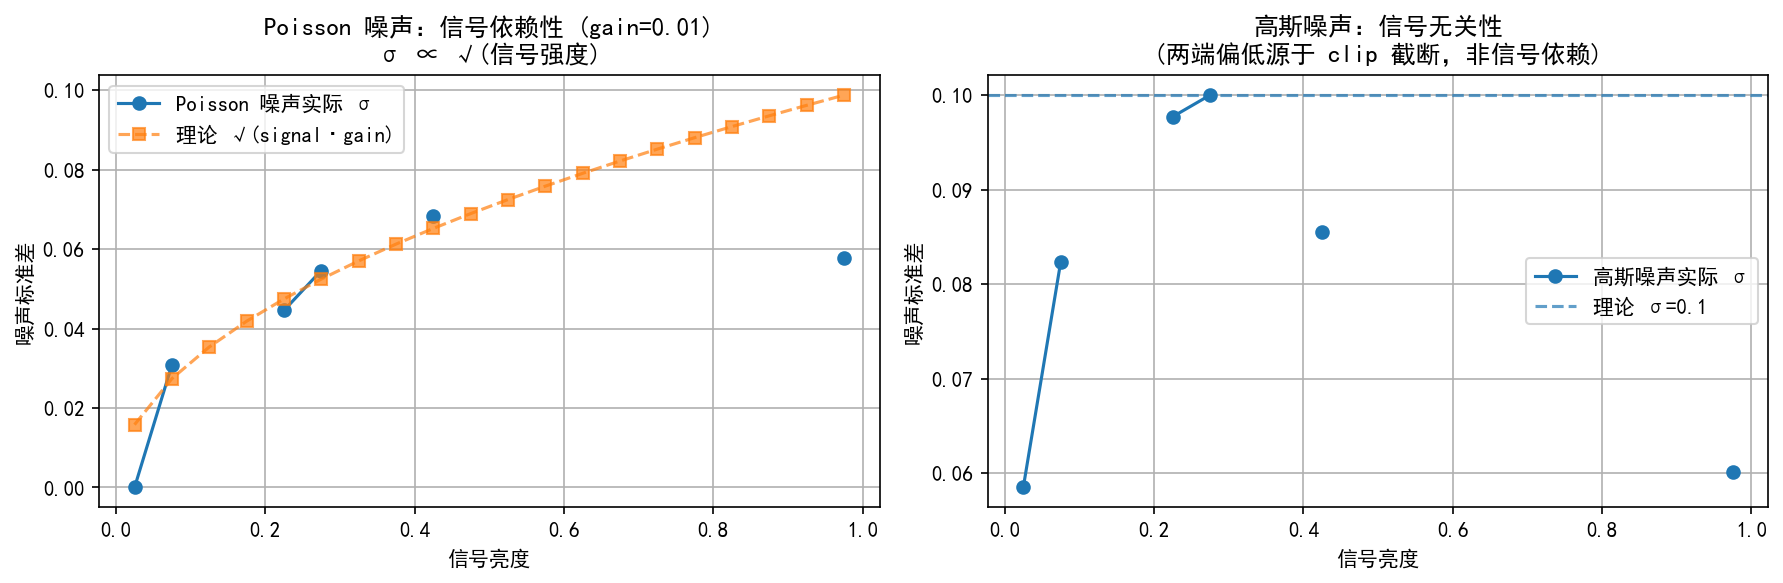
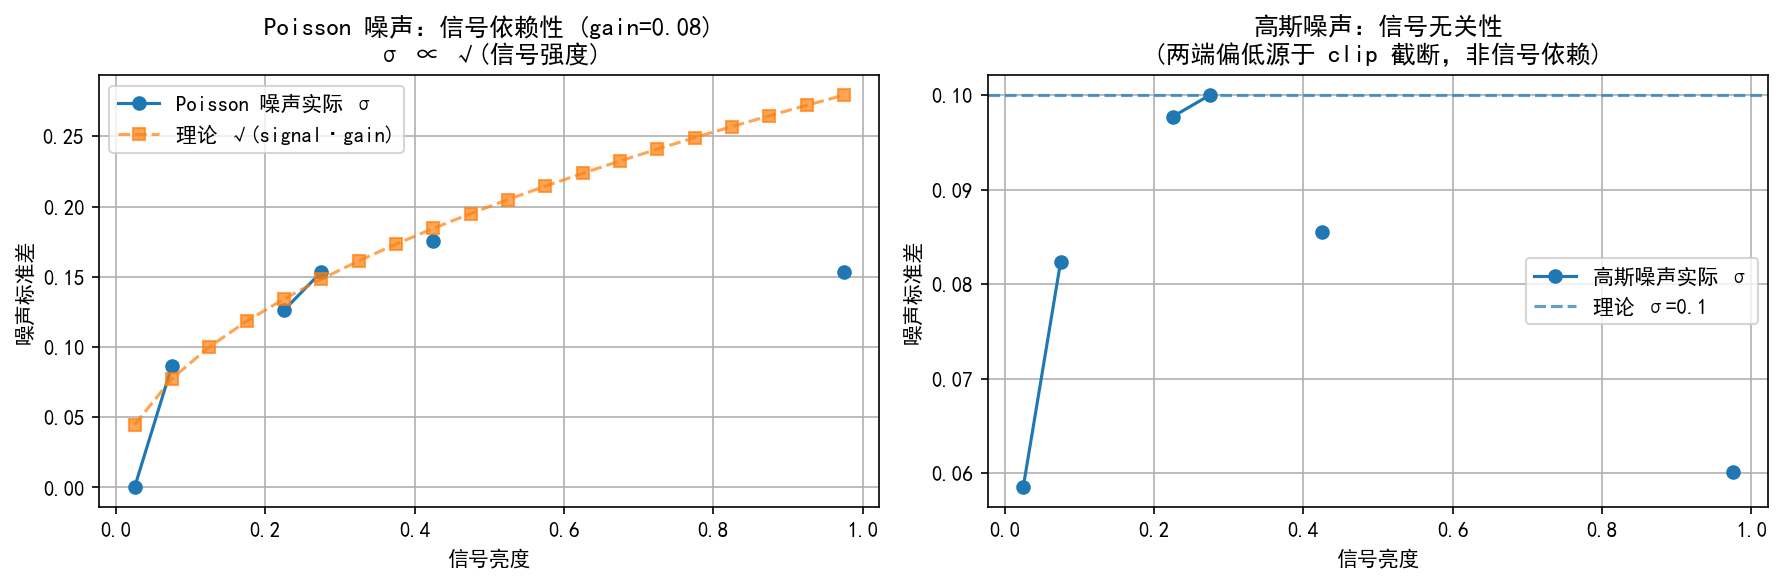
1

diff --git a/第1章 逆问题与贝叶斯推断/第一章 配套实验/实验1.4-1/1.4-1.py b/第1章 逆问题与贝叶斯推断/第一章 配套实验/实验1.4-1/1.4-1.py
@@ -38,15 +38,16 @@ y_gauss = x + sigma_gauss * np.random.randn(n, n)
 y_gauss = np.clip(y_gauss, 0, 1)
 
 # (b) Poisson 噪声：y_i ~ Poisson((Ax)_i / gain) * gain，信号依赖
-# 调节 gain 使 PSNR 与高斯噪声大致相当
-gain = 0.01
+# 调节 gain 使 PSNR 与高斯噪声大致相当（gain 越大噪声越强、PSNR 越低）
+gain = 0.08
 y_poisson = np.random.poisson(x / gain).astype(np.float64) * gain
 # 注意：clip 操作会截断高亮度区域的噪声，导致实测 σ 在高亮度处低于理论值
 # 这是因为当 x 接近 1 时，λ = x/gain = 100，方差较大，部分样本会被 clip 到 1
 y_poisson = np.clip(y_poisson, 0, 1)
 
 # (c) 脉冲噪声（椒盐噪声）：随机像素被替换为 0 或 1
-amount_sp = 0.05
+# 调节 amount 使 PSNR 与高斯噪声大致相当（amount 越小噪声越弱、PSNR 越高）
+amount_sp = 0.01
 y_sp = random_noise(x, mode='s&p', amount=amount_sp)
 
 # ---- 3. 计算质量度量 ----
@@ -81,9 +82,20 @@ for i, (y, name) in enumerate(zip(noisy_list, names)):
 
     # 噪声直方图
     residual = (y - x).ravel()
-    axes[i, 2].hist(residual, bins=100, density=True, alpha=0.7, color=f'C{i}')
-    axes[i, 2].set_title(f'噪声直方图\nμ={residual.mean():.4f}, σ={residual.std():.4f}')
-    axes[i, 2].set_xlabel('残差值')
+    # 高斯噪声：保留完整数据直方图（含 clip 在 0 处的尖峰，体现真实情况），
+    # 并叠加理论 N(0, σ²) 曲线作对照，使读者能分辨"钟形是真高斯、0 处尖峰是 clip 截断"。
+    if name == '高斯噪声':
+        axes[i, 2].hist(residual, bins=100, density=True, alpha=0.7,
+                        color=f'C{i}', label='含噪残差')
+        t = np.linspace(-0.6, 0.6, 400)
+        theory = (1 / (np.sqrt(2 * np.pi) * sigma_gauss)) * np.exp(-0.5 * (t / sigma_gauss) ** 2)
+        axes[i, 2].plot(t, theory, 'k--', lw=2, label=f'理论 N(0, {sigma_gauss}²)')
+        axes[i, 2].legend(loc='upper right', fontsize=7)
+        axes[i, 2].set_title(f'高斯噪声直方图（完整数据）\nμ={residual.mean():.4f}, σ={residual.std():.4f}')
+    else:
+        axes[i, 2].hist(residual, bins=100, density=True, alpha=0.7, color=f'C{i}')
+        axes[i, 2].set_title(f'噪声直方图\nμ={residual.mean():.4f}, σ={residual.std():.4f}')
+    axes[i, 2].set_xlabel('残差值 (y - x)')
     axes[i, 2].set_ylabel('概率密度')
 
 plt.suptitle('三种噪声模型对比', fontsize=16, y=1.01)

diff --git a/第1章 逆问题与贝叶斯推断/1.4 噪声建模与似然函数.md b/第1章 逆问题与贝叶斯推断/1.4 噪声建模与似然函数.md
@@ -22,12 +22,12 @@ $$y = Ax + \varepsilon$$
 噪声物理机制 → 噪声分布 p(ε) → 似然函数 p(y|x) → 负对数似然 -ln p(y|x) → 数据项 D(y, Ax)
 ```
 
-逻辑是：
+背后的逻辑是：
 1. **噪声物理机制**决定 $\varepsilon$ 服从什么分布
 2. 由 $y = Ax + \varepsilon$，得 $\varepsilon = y - Ax$ 的分布，直接给出**似然函数** $p(y|x)$——已知 $x$ 时观测到 $y$ 的概率
-3. 取负对数，乘积变求和、指数消失，得到简洁**数据项** $D(y, Ax)$
+3. 取负对数，乘积变求和、指数消失（指数族概率分布），得到简洁**数据项** $D(y, Ax)$
 
-关键洞察：**数据项的形式不是人为选的，而是由物理噪声机制唯一决定的。** 选 L2、L1 还是 KL 散度，不是因为哪个"更好"，而取决于噪声是高斯、Laplace（脉冲）还是 Poisson 的。
+**数据项的形式不是人为选的，而是由物理噪声机制唯一决定的。** 选 L2、L1 还是 KL 散度，不是因为哪个"更好"，而取决于噪声是高斯、Laplace（脉冲）还是 Poisson 的。
 
 ---
 
@@ -35,7 +35,7 @@ $$y = Ax + \varepsilon$$
 
 ### 物理来源：为什么几乎都用高斯？
 
-这里先回答一个你可能一直想问的问题：**为什么图像处理里高斯噪声满天飞？** 答案藏在**中心极限定理（Central Limit Theorem, CLT）**里。
+这里先回答一个你可能一直想问的问题：**为什么图像处理里高斯噪声满天飞？** 答案藏在**中心极限定理（Central Limit Theorem, CLT）** 里。
 
 中心极限定理说：大量相互独立的随机小扰动叠加在一起，其总和的分布会趋近高斯分布——不管单个扰动原本是什么分布。探测器里的电子热噪声、散粒噪声，本质都是海量独立微观事件（电子跃迁、光子到达）的叠加。所以按 CLT，它们的总和天然接近高斯。这就是"为什么几乎都用高斯"的根本原因：**高斯不是拍脑袋选的，而是大量独立小扰动叠加的数学必然。**
 
@@ -147,7 +147,7 @@ $$-\ln p(y|x) = \frac{1}{b} \|y - Ax\|_1 + \text{const}$$
 
 ### L¹ vs L²：鲁棒性直觉
 
-为何 L¹ 对离群值更鲁棒？看去噪问题（$A = I$）：
+为何 L¹ 对离群值更鲁棒？看去噪问题（设$A = I$）：
 - **L² 目标**：$\min_x \|y - x\|_2^2 = \sum_i (y_i - x_i)^2$。单个大残差被平方放大，迫使 $x_k$ 向 $y_k$ 靠拢——离群值"绑架"了解。
 - **L¹ 目标**：$\min_x \|y - x\|_1 = \sum_i |y_i - x_i|$。大残差只线性增长，不主导总误差——算法可"忽略"少数离群值。
 
@@ -179,9 +179,9 @@ $$-\ln p(y|x) = \frac{1}{b} \|y - Ax\|_1 + \text{const}$$
 
 三种数据项来自三种物理噪声机制，流程完全统一。**数据项选择不是任意的，由成像系统物理特性决定。** 用错数据项（如 Poisson 用 L²），重建质量会显著下降——不是算法不好，是噪声模型不对。
 
-### 一个深层统一：指数族
+### 深层统一：指数族
 
-三种噪声都属于**指数族（exponential family）**，统一写：
+三种噪声（观测数据的概率分布）都属于**指数族（exponential family）** ，统一写：
 
 $$p(\varepsilon_i) \propto \exp\big(-\phi(\varepsilon_i)\big)$$
 
@@ -200,14 +200,14 @@ $\phi$ 为某凸函数：
 
 ### 实验场景
 
-用 $256 \times 256$ Shepp-Logan 幻影（含脑脊液/灰质/白质/颅骨等不同亮度区），分别施加三种噪声并调参使 PSNR 大致相当：
+用 $256 \times 256$ Shepp-Logan 幻影，分别施加三种噪声并调参使 PSNR 大致相当（三者均落在约 $21\!-\!23$ dB）：
 - **高斯噪声**（$\sigma = 0.1$）：信号无关，各像素 iid
-- **Poisson 噪声**（增益 $= 0.01$）：信号依赖，方差 $\propto$ 信号强度
-- **脉冲噪声**（椒盐，$p = 0.05$）：仅影响少数像素但偏差极大
+- **Poisson 噪声**（增益 $= 0.08$）：信号依赖，方差 $\propto$ 信号强度
+- **脉冲噪声**（椒盐，$p = 0.01$）：仅影响极少数像素但偏差极大
 
 对每种噪声算 PSNR 和 SSIM，绘含噪图、残差图和直方图，并通过分桶统计验证 Poisson 信号依赖（$\sigma \propto \sqrt{\text{signal}}$）和高斯信号无关性。
 
-> **前置提示**：PSNR 和 SSIM 在附录 1A 详述。此处仅作工具，核心是对比三种噪声视觉与统计差异。
+> PSNR 和 SSIM 在附录 1A 详述。此处仅作工具，核心是对比三种噪声视觉与统计差异。
 
 ### 实验输入
 
@@ -215,25 +215,26 @@ $\phi$ 为某凸函数：
 |------|------|
 | 图像 | $256 \times 256$ Shepp-Logan 幻影，归一化至 $[0, 1]$ |
 | 高斯噪声 | $\sigma = 0.1$，加性白噪声 |
-| Poisson 噪声 | gain = 0.01，采样后 ×gain |
-| 脉冲噪声 | 椒盐，$p = 0.05$ |
+| Poisson 噪声 | gain = 0.08，采样后 ×gain |
+| 脉冲噪声 | 椒盐，$p = 0.01$ |
 | 分桶数 | 20 |
-| 重建方法 | 无重建——直接对比含噪图像统计特性 |
 
 ### 实际效果
 
 ![实验1.4-1 三种噪声对比](<./第一章 配套实验/实验1.4-1/实验1_4_1_噪声建模.png>)
 
-三种噪声视觉差异鲜明：
-- **高斯**均匀覆盖全图，PSNR 21.71 dB，但 SSIM 较低（0.1856）——SSIM 对结构保真敏感，高斯虽"均匀"却破坏了亮度、对比度、结构三维度信息
-- **Poisson** PSNR（29.98 dB）和 SSIM（0.7741）最高。这不意味 Poisson"更弱"，而是它对暗区几乎无影响（保留大量零附近像素），而 SSIM 对低亮度失真不敏感
-- **脉冲** PSNR（16.56 dB）最低，SSIM（0.3497）居中。5% 椒盐像素比例不大但偏差极大，导致整体均方误差大
+三种噪声在 PSNR 大致相当（均约 $21\!-\!23$ dB）的前提下，视觉与统计差异依然鲜明：
+- **高斯**（PSNR 21.71 dB，SSIM 0.1856）：噪声均匀覆盖全图，但 SSIM 最低——因为均匀噪点同时破坏了亮度、对比度、结构三维度信息，结构保真度最差
+- **Poisson**（PSNR 21.05 dB，SSIM 0.6617）：同等 PSNR 下它比高斯"看起来更干净"，因为它对暗区几乎无影响（保留大量零附近像素），而 SSIM 对低亮度失真不敏感——这是信号依赖噪声的特征，而非噪声"更弱"
+- **脉冲**（PSNR 23.14 dB，SSIM 0.7736）：仅约 1% 像素被替换为极值，却偏差极大；SSIM 最高，因为绝大多数像素完好、仅极少数遭破坏，整体结构保真优于前两者
+
+> 注意：三者在**同等 PSNR** 下 SSIM 仍显著不同（0.19 / 0.66 / 0.77），恰恰说明 PSNR 不足以刻画噪声质量——这正是本节要传达的核心：噪声类型不同，即使"平均误差"相同，对图像的破坏方式也截然不同。
 
 残差图对应三种数据项：高斯残差各处置均匀（L² 均匀惩罚）、Poisson 亮区波动更大（KL 加权惩罚）、脉冲残差稀疏位置有极大值（L¹ 稀疏大偏差容忍）。
 
 ![实验1.4-1 信号依赖性验证](<./第一章 配套实验/实验1.4-1/实验1_4_1_噪声信号依赖性.png>)
 
-左图验证 Poisson 标准差随信号强度增大：$\sigma \propto \sqrt{x}$，与理论 $\sigma = \sqrt{x \cdot 0.01}$ 吻合。右图对比高斯：实测 $\sigma$ 各亮度段基本恒为 0.1，体现信号无关性。这对应本节核心结论：**噪声类型不同，统计特性截然不同，正因如此不同物理噪声对应不同数据项。**
+左图验证 Poisson 标准差随信号强度增大：$\sigma \propto \sqrt{x}$，与理论 $\sigma = \sqrt{\text{信号} \cdot \text{gain}} = \sqrt{\text{信号} \cdot 0.08}$ 吻合（gain 为 Poisson 采样系数）。右图对比高斯：实测 $\sigma$ 各亮度段基本稳定在 0.1 附近（仅两端略偏低，源于像素被 clip 到 $[0,1]$ 时的截断效应，与信号依赖性无关），体现信号无关性。这对应本节核心结论：**噪声类型不同，统计特性截然不同，正因如此不同物理噪声对应不同数据项。**
 
 ---
 
@@ -274,7 +275,7 @@ A 形状: (1024, 1024)
 最小奇异值 σ_min: 2.3805e-05
 条件数 κ(A) = 4.7833e+04   (轻度病态)
 
-数据拟合误差 ||Ax - y||_2:
+数据拟合误差 ||Ax - y||_2 (L2 范数):
   真实图像 x_true:   0.0451
   随机噪声 x_random: 0.0391
   比值: 1.15 倍

diff --git a/第1章 逆问题与贝叶斯推断/1.0 本章导读.md b/第1章 逆问题与贝叶斯推断/1.0 本章导读.md
@@ -25,7 +25,7 @@ $$y_t = f(\mathbf{x}, t) + n_t$$
 
 **最大似然、MAP、贝叶斯分类和深度学习，都代表了一个共同目标的不同侧面：从含噪或带偏的观测中推断隐藏成因。**
 
-> 上面这个统一模型 $y_t = f(\mathbf{x}, t) + n_t$ 是**最一般**的形式。本书**先把 $f$ 收敛到线性、无显式时间项的特例 $y = Ax+\varepsilon$**：现实里的成像系统（相机、CT、MRI）大多能很好地近似成线性，线性让我们可以用矩阵、SVD、算子理论把这些困难"摊开来看"。而通用索引$t$会在本书的下半部分讨论扩散模型生成时以过程步的形式出现。
+> 上面这个统一模型 $y_t = f(\mathbf{x}, t) + n_t$ 是**最一般**的形式。本书**先把 $f$ 收敛到线性、无显式时间项的特例 $y = Ax+\varepsilon$**：现实里的成像系统（相机、CT、MRI）大多能很好地近似成线性，线性让我们可以用矩阵、SVD、算子理论把这些困难"摊开来看"。而通用时间项/索引$t$会在本书的下半部分讨论扩散模型生成时，以时间/过程步的参数形式出现。
 >
 
 所以你会发现一条清晰的演进链：

diff --git a/第1章 逆问题与贝叶斯推断/1.3 不适定性：为什么逆问题难？.md b/第1章 逆问题与贝叶斯推断/1.3 不适定性：为什么逆问题难？.md
@@ -206,7 +206,9 @@ $$
 \|\widetilde{x} - \widetilde{x}^\delta\| = \sqrt{\sum_{i=1}^{r} \frac{|\langle \mathbf{u}_i, e \rangle|^2}{\sigma_i^2}}
 $$
 
-**关键机制**：噪声在各奇异方向上的投影 $|\langle \mathbf{u}_i, e \rangle|$ 量级大致相当（白噪声假设下期望为常数），但奇异值 $\sigma_i$ 随 $i$ 递增而衰减，因此求和项被小奇异值对应的项所主导——这正是误差爆炸的数学根源。
+> 伪逆 $A^\dagger$ 是通过 SVD 将非零奇异值取倒数构造的"广义逆"，它对任意矩阵都有定义，给出最小二乘/最小范数意义下的最优解；但当矩阵病态（小奇异值趋零）时，$1/\sigma_i$ 会无限放大噪声，使数学上的"最优"变成物理上的"灾难"。
+
+噪声在各奇异方向上的投影 $|\langle \mathbf{u}_i, e \rangle|$ 量级大致相当（白噪声假设下期望为常数），但奇异值 $\sigma_i$ 随 $i$ 递增而衰减，因此求和项被小奇异值对应的项所主导——这正是误差爆炸的数学根源。
 
 ### 奇异值衰减：不适定性的"指纹"
 
